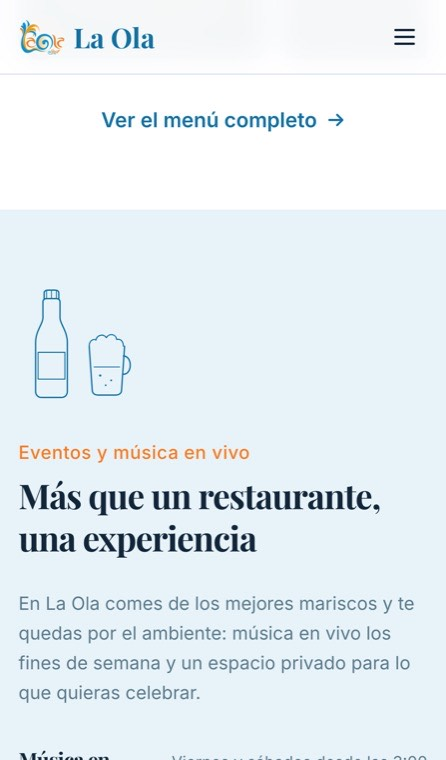
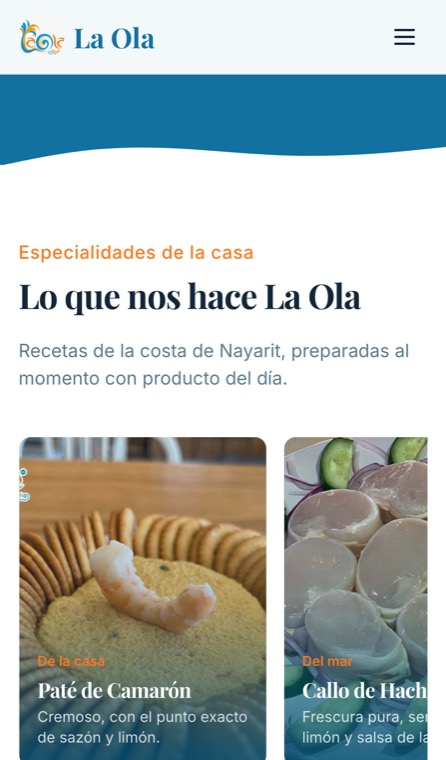
Landing más compacta: proyectos en dos columnas, proceso en una fila, menos espacio; nuevas capturas de La Ola

diff --git a/index.html b/index.html
@@ -56,7 +56,7 @@
   .cotizar { font-size: 15px; font-weight: 500; border-bottom: 1px solid var(--crema); padding-bottom: 2px; }
 
   /* Portada */
-  .portada { min-height: 100svh; display: flex; flex-direction: column; justify-content: flex-end; padding: 140px 0 56px; position: relative; }
+  .portada { min-height: 86svh; display: flex; flex-direction: column; justify-content: flex-end; padding: 130px 0 48px; position: relative; }
   .previo { color: var(--gris); font-size: 15px; font-weight: 500; margin: 0 0 28px; }
   h1 {
     font-weight: 500; font-size: clamp(48px, 8.2vw, 132px); line-height: .98; letter-spacing: -0.05em; margin: 0;
@@ -67,7 +67,7 @@
   h1 .linea:nth-child(3) > span { animation-delay: .24s; }
   @keyframes subir { to { transform: none; } }
 
-  .portada-pie { display: grid; grid-template-columns: 1.2fr 1fr; gap: 40px; align-items: end; margin-top: 56px; }
+  .portada-pie { display: grid; grid-template-columns: 1.2fr 1fr; gap: 40px; align-items: end; margin-top: 40px; }
   .portada-pie p { color: var(--gris); font-size: 20px; line-height: 1.55; margin: 0; max-width: 30em; }
   .acciones { display: flex; gap: 28px; align-items: center; justify-content: flex-end; flex-wrap: wrap; }
   .boton {
@@ -80,83 +80,82 @@
   .boton:hover .flecha { transform: translateX(4px); }
   .liga { font-weight: 500; border-bottom: 1px solid var(--gris-2); padding-bottom: 3px; transition: border-color .3s; }
   .liga:hover { border-color: var(--crema); }
-  .datos { display: flex; gap: 40px; flex-wrap: wrap; margin-top: 64px; font-size: 14px; color: var(--gris); }
+  .datos { display: flex; gap: 40px; flex-wrap: wrap; margin-top: 44px; font-size: 14px; color: var(--gris); }
   .datos b { color: var(--crema); font-weight: 500; }
 
   /* Cinta de nombres */
-  .cinta { padding: 40px 0; overflow: hidden; background: var(--negro-2); }
+  .cinta { padding: 22px 0; overflow: hidden; background: var(--negro-2); }
   .cinta-pista { display: flex; width: max-content; animation: correr 38s linear infinite; }
-  .cinta span { font: 500 clamp(36px, 5vw, 72px)/1 var(--sans); letter-spacing: -0.04em; color: var(--gris-2); padding-right: 64px; white-space: nowrap; transition: color .3s; }
+  .cinta span { font: 500 clamp(26px, 3.4vw, 48px)/1 var(--sans); letter-spacing: -0.04em; color: var(--gris-2); padding-right: 64px; white-space: nowrap; transition: color .3s; }
   .cinta span:hover { color: var(--crema); }
   .cinta span::after { content: "/"; color: var(--gris-2); padding-left: 64px; font-weight: 400; }
   @keyframes correr { to { transform: translateX(-50%); } }
 
   /* Secciones */
-  section { padding: 140px 0; }
-  .titulo-seccion { display: grid; grid-template-columns: 1.3fr 1fr; gap: 40px; align-items: end; margin-bottom: 96px; }
+  section { padding: 88px 0; }
+  .titulo-seccion { display: grid; grid-template-columns: 1.3fr 1fr; gap: 40px; align-items: end; margin-bottom: 44px; }
   h2 { font-weight: 500; font-size: clamp(38px, 5.4vw, 80px); line-height: 1.02; letter-spacing: -0.045em; margin: 0; }
   .titulo-seccion p { color: var(--gris); font-size: 19px; margin: 0; max-width: 26em; }
 
   /* Trabajos */
-  .proyecto { margin-bottom: 160px; }
-  .proyecto:last-child { margin-bottom: 0; }
-  .proyecto-cabeza { display: flex; justify-content: space-between; align-items: baseline; gap: 24px; flex-wrap: wrap; margin-bottom: 28px; }
-  .proyecto h3 { font-weight: 500; font-size: clamp(36px, 4.4vw, 64px); letter-spacing: -0.035em; line-height: 1; margin: 0; }
-  .etiquetas { display: flex; gap: 22px; color: var(--gris); font-size: 14px; flex-wrap: wrap; }
+  .trabajos { display: grid; grid-template-columns: 1fr 1fr; gap: 56px 32px; }
+  .proyecto { min-width: 0; }
+  .proyecto-cabeza { display: flex; justify-content: space-between; align-items: baseline; gap: 16px; flex-wrap: wrap; margin-bottom: 14px; }
+  .proyecto h3 { font-weight: 500; font-size: clamp(26px, 2.4vw, 34px); letter-spacing: -0.03em; line-height: 1; margin: 0; }
+  .etiquetas { display: flex; gap: 14px; color: var(--gris); font-size: 13px; flex-wrap: wrap; }
   .escena { position: relative; }
   .ventana { background: var(--negro-3); border-radius: 8px; overflow: hidden; }
-  .ventana-barra { display: flex; align-items: center; justify-content: space-between; padding: 10px 16px; font-size: 13px; color: var(--gris); }
+  .ventana-barra { display: flex; align-items: center; justify-content: space-between; padding: 8px 12px; font-size: 12px; color: var(--gris); }
   .ventana-barra .controles { display: flex; gap: 18px; font-size: 13px; color: var(--gris-2); letter-spacing: 0; }
   .ventana-pantalla { overflow: hidden; aspect-ratio: 16 / 10; }
   .ventana-pantalla img { width: 100%; height: 100%; object-fit: cover; object-position: top; filter: grayscale(1) contrast(1.04); transition: transform 1.2s var(--curva), filter .9s ease; }
   .proyecto.activo img, .proyecto:hover img { filter: none; }
   .proyecto:hover .ventana-pantalla img { transform: scale(1.025); }
   .celular {
-    position: absolute; right: 4%; bottom: -14%; width: clamp(130px, 17%, 230px);
-    background: #050505; border-radius: 30px; padding: 8px; will-change: transform;
+    position: absolute; right: 4%; bottom: -10%; width: 21%;
+    background: #050505; border-radius: 20px; padding: 5px; will-change: transform;
   }
-  .celular img { filter: grayscale(1) contrast(1.04); transition: filter .9s ease; border-radius: 23px; aspect-ratio: 446 / 760; object-fit: cover; object-position: top; width: 100%; height: auto; }
-  .proyecto-pie { display: grid; grid-template-columns: 1.3fr 1fr; gap: 40px; margin-top: 44px; align-items: start; }
-  .proyecto-pie p { margin: 0; color: var(--gris); font-size: 17px; max-width: 34em; }
-  .proyecto-pie .resultado { color: var(--crema); margin-bottom: 10px; }
+  .celular img { filter: grayscale(1) contrast(1.04); transition: filter .9s ease; border-radius: 15px; aspect-ratio: 446 / 760; object-fit: cover; object-position: top; width: 100%; height: auto; }
+  .proyecto-pie { display: flex; justify-content: space-between; gap: 24px; margin-top: 30px; align-items: baseline; }
+  .proyecto-pie p { margin: 0; color: var(--gris); font-size: 15px; max-width: 30em; }
+  .proyecto-pie .resultado { color: var(--crema); }
   .proyecto-pie .resultado b { color: var(--gris); font-weight: 500; margin-right: 10px; }
-  .proyecto-pie .visitar { justify-self: end; font-weight: 500; border-bottom: 1px solid var(--gris-2); padding-bottom: 3px; transition: border-color .3s; }
+  .proyecto-pie .visitar { flex: none; font-size: 15px; font-weight: 500; border-bottom: 1px solid var(--gris-2); padding-bottom: 3px; transition: border-color .3s; }
   .proyecto-pie .visitar:hover { border-color: var(--crema); }
 
   /* Proceso */
   .proceso { background: var(--crema); color: var(--negro); }
-  .proceso-rejilla { display: grid; grid-template-columns: 1fr 1.2fr; gap: 80px; }
-  .proceso .fijo { position: sticky; top: 120px; }
-  .proceso .nota { color: #6b6b6b; font-size: 19px; margin: 28px 0 0; max-width: 22em; }
-  .paso { padding: 0 0 72px; }
-  .paso:last-child { padding-bottom: 0; }
+  .proceso-rejilla { display: grid; grid-template-columns: 1fr; gap: 44px; }
+  .pasos { display: grid; grid-template-columns: repeat(4, 1fr); gap: 32px; }
+  .proceso .fijo { display: grid; grid-template-columns: 1.3fr 1fr; gap: 40px; align-items: end; }
+  .proceso .nota { color: #6b6b6b; font-size: 19px; margin: 0; max-width: 22em; }
+  .paso { padding: 0; }
   .paso .num { font: 500 15px/1 var(--sans); color: #8c8c8c; display: block; margin-bottom: 18px; }
-  .paso h3 { font-weight: 500; font-size: 28px; letter-spacing: -0.02em; margin: 0 0 10px; }
-  .paso p { margin: 0; color: #5a5a5a; font-size: 18px; max-width: 28em; }
+  .paso h3 { font-weight: 500; font-size: 22px; letter-spacing: -0.02em; margin: 0 0 10px; }
+  .paso p { margin: 0; color: #5a5a5a; font-size: 16px; }
 
   /* Paquetes */
   .paquetes { display: grid; grid-template-columns: 1fr 1fr; gap: 24px; }
-  .paquete { background: var(--negro-2); border-radius: 8px; padding: 48px; display: flex; flex-direction: column; transition: background .4s; }
+  .paquete { background: var(--negro-2); border-radius: 8px; padding: 36px; display: flex; flex-direction: column; transition: background .4s; }
   .paquete:hover { background: var(--negro-3); }
   .paquete.destacado { background: var(--crema); color: var(--negro); }
-  .paquete .tipo { font-size: 15px; color: var(--gris); margin: 0 0 32px; }
+  .paquete .tipo { font-size: 15px; color: var(--gris); margin: 0 0 18px; }
   .paquete.destacado .tipo { color: #6b6b6b; }
   .paquete h3 { font-weight: 500; font-size: 40px; letter-spacing: -0.03em; margin: 0 0 8px; line-height: 1.05; }
-  .precio { font: 500 clamp(56px, 6vw, 88px)/1 var(--sans); letter-spacing: -0.055em; margin: 28px 0 6px; }
+  .precio { font: 500 clamp(56px, 6vw, 88px)/1 var(--sans); letter-spacing: -0.055em; margin: 18px 0 4px; }
   .precio small { font-size: 18px; letter-spacing: 0; color: var(--gris); margin-left: 6px; }
   .paquete.destacado .precio small { color: #6b6b6b; }
-  .paquete ul { list-style: none; padding: 0; margin: 36px 0 44px; display: grid; gap: 14px; }
+  .paquete ul { list-style: none; padding: 0; margin: 24px 0 30px; display: grid; gap: 10px; }
   .paquete li { display: flex; gap: 14px; font-size: 17px; }
   .paquete li::before { content: ""; width: 5px; height: 5px; background: var(--gris); margin-top: 11px; flex: none; }
   .paquete .boton { margin-top: auto; align-self: flex-start; }
   .paquete.destacado .boton { background: var(--negro); color: var(--crema); }
   .paquete.destacado .boton:hover { background: #333; color: var(--crema); }
-  .letra-chica { color: var(--gris); font-size: 15px; margin: 32px 0 0; }
+  .letra-chica { color: var(--gris); font-size: 15px; margin: 22px 0 0; }
 
   /* Preguntas */
-  .preguntas { display: grid; grid-template-columns: 1fr 1.4fr; gap: 80px; }
-  details { padding: 26px 0; }
-  details + details { margin-top: 4px; }
+  .preguntas { display: grid; grid-template-columns: 1fr 1.4fr; gap: 64px; }
+  details { padding: 16px 0; }
   summary { list-style: none; cursor: pointer; display: flex; justify-content: space-between; gap: 24px; font-size: 22px; letter-spacing: -0.015em; }
   summary::-webkit-details-marker { display: none; }
   summary::after { content: "+"; font-size: 28px; line-height: 1; color: var(--gris); transition: transform .35s var(--curva); }
@@ -164,9 +163,9 @@
   details p { color: var(--gris); margin: 14px 0 0; font-size: 18px; max-width: 36em; }
 
   /* Cierre */
-  .cierre { padding: 160px 0 120px; }
-  .cierre h2 { font-size: clamp(50px, 9vw, 150px); line-height: .95; letter-spacing: -0.055em; }
-  .cierre-pie { display: flex; justify-content: space-between; align-items: end; gap: 32px; flex-wrap: wrap; margin-top: 64px; }
+  .cierre { padding: 96px 0 72px; }
+  .cierre h2 { font-size: clamp(46px, 7.4vw, 120px); line-height: .95; letter-spacing: -0.055em; }
+  .cierre-pie { display: flex; justify-content: space-between; align-items: end; gap: 32px; flex-wrap: wrap; margin-top: 40px; }
   .correo { font: 500 clamp(26px, 3.2vw, 44px)/1.1 var(--sans); letter-spacing: -0.03em; border-bottom: 1px solid var(--gris-2); padding-bottom: 6px; transition: color .3s, border-color .3s; }
   .correo:hover { border-color: var(--crema); }
   footer { padding: 40px 0 48px; color: var(--gris-2); font-size: 14px; }
@@ -178,14 +177,13 @@
 
   @media (max-width: 900px) {
     .barra nav { display: none; }
-    .portada-pie, .titulo-seccion, .proyecto-pie, .proceso-rejilla, .preguntas, .paquetes { grid-template-columns: 1fr; }
+    .portada-pie, .titulo-seccion, .proceso-rejilla, .preguntas, .paquetes, .trabajos, .proceso .fijo { grid-template-columns: 1fr; }
+    .pasos { grid-template-columns: 1fr 1fr; gap: 28px 20px; }
     .acciones { justify-content: flex-start; }
-    .proyecto-pie .visitar { justify-self: start; }
-    .proceso .fijo { position: static; }
     .proceso-rejilla { gap: 48px; }
-    section { padding: 96px 0; }
-    .titulo-seccion { margin-bottom: 56px; }
-    .proyecto { margin-bottom: 120px; }
+    section { padding: 64px 0; }
+    .titulo-seccion { margin-bottom: 32px; }
+    .preguntas { gap: 20px; }
     .paquete { padding: 32px 24px; }
   }
   @media (max-width: 560px) {
@@ -193,10 +191,11 @@
     .portada { padding: 120px 0 40px; }
     .portada-pie p { font-size: 18px; }
     .datos { gap: 14px 28px; margin-top: 44px; }
-    .celular { width: 31%; right: 3%; bottom: -18%; border-radius: 18px; padding: 5px; }
-    .celular img { border-radius: 14px; }
+    .celular { width: 26%; right: 3%; bottom: -12%; border-radius: 16px; padding: 4px; }
+    .celular img { border-radius: 12px; }
     .ventana-barra .url { font-size: 12px; }
-    .proyecto-pie { margin-top: 64px; }
+    .proyecto-pie { margin-top: 28px; }
+    .pasos { grid-template-columns: 1fr; }
     summary { font-size: 19px; }
   }
   @media (prefers-reduced-motion: reduce) {
@@ -259,6 +258,7 @@
         <p>Cada sitio se diseñó para su marca y para quien lo abre desde el celular.</p>
       </div>
 
+      <div class="trabajos">
       <article class="proyecto">
         <div class="proyecto-cabeza rev">
           <h3>Makatea</h3>
@@ -273,8 +273,7 @@
         </div>
         <div class="proyecto-pie rev">
           <div>
-            <p class="resultado"><b>Resultado</b>Recordatorios de pago que salen del WhatsApp del propio negocio</p>
-            <p>Software de cobranza recurrente. Sitio en tres idiomas, precios por país y cuenta que se abre sin hablar con nadie.</p>
+            <p class="resultado">Recordatorios de pago que salen del WhatsApp del propio negocio</p>
           </div>
           <a class="visitar" href="https://makatea.ai" target="_blank" rel="noopener">makatea.ai ↗</a>
         </div>
@@ -294,8 +293,7 @@
         </div>
         <div class="proyecto-pie rev">
           <div>
-            <p class="resultado"><b>Resultado</b>Menú, eventos y programa de lealtad de cuatro sucursales en un solo sitio</p>
-            <p>Restaurante de mariscos con música en vivo. El cliente se inscribe a la lealtad desde su mesa con un código QR.</p>
+            <p class="resultado">Menú, eventos y programa de lealtad de cuatro sucursales en un solo sitio</p>
           </div>
           <a class="visitar" href="https://laola.mx" target="_blank" rel="noopener">laola.mx ↗</a>
         </div>
@@ -315,8 +313,7 @@
         </div>
         <div class="proyecto-pie rev">
           <div>
-            <p class="resultado"><b>Resultado</b>Contratos que se firman desde el celular, con clientes en 13 países</p>
-            <p>Plataforma para preparar, mandar y firmar contratos. Biblioteca de plantillas y guías en tres idiomas.</p>
+            <p class="resultado">Contratos que se firman desde el celular, con clientes en 13 países</p>
           </div>
           <a class="visitar" href="https://signsolu.com" target="_blank" rel="noopener">signsolu.com ↗</a>
         </div>
@@ -336,8 +333,7 @@
         </div>
         <div class="proyecto-pie rev">
           <div>
-            <p class="resultado"><b>Resultado</b>Cotizaciones con la marca del negocio que se mandan por WhatsApp en minutos</p>
-            <p>Sistema para negocios agrícolas. Catálogo con precios de contado y de cosecha, y aviso cuando el cliente abre la cotización.</p>
+            <p class="resultado">Cotizaciones con la marca del negocio que se mandan por WhatsApp en minutos</p>
           </div>
           <a class="visitar" href="https://agroqs.com" target="_blank" rel="noopener">agroqs.com ↗</a>
         </div>
@@ -357,8 +353,7 @@
         </div>
         <div class="proyecto-pie rev">
           <div>
-            <p class="resultado"><b>Resultado</b>Solicitud de crédito desde el celular, sin papeleo ni visita a sucursal</p>
-            <p>Créditos para personas y negocios. El cliente pide su primer crédito o renueva con un clic.</p>
+            <p class="resultado">Solicitud de crédito desde el celular, sin papeleo ni visita a sucursal</p>
           </div>
           <a class="visitar" href="https://solufintech.com" target="_blank" rel="noopener">solufintech.com ↗</a>
         </div>
@@ -378,12 +373,12 @@
         </div>
         <div class="proyecto-pie rev">
           <div>
-            <p class="resultado"><b>Resultado</b>Un sitio con la personalidad de la artista</p>
-            <p>Cantautora sonorense. Música, videos, diario y álbum en un sitio bilingüe que ella misma actualiza.</p>
+            <p class="resultado">Un sitio con la personalidad de la artista</p>
           </div>
           <a class="visitar" href="https://avelina.com.mx" target="_blank" rel="noopener">avelina.com.mx ↗</a>
         </div>
       </article>
+      </div>
     </div>
   </section>
 
@@ -393,7 +388,7 @@
         <h2>Usted ve su página <em>antes</em> de contratar</h2>
         <p class="nota">Primero le mostramos el trabajo. Después usted decide.</p>
       </div>
-      <div>
+      <div class="pasos">
         <div class="paso rev">
           <span class="num">01</span>
           <h3>Armamos una muestra</h3>
@@ -536,7 +531,7 @@
         const r = c.parentElement.getBoundingClientRect();
         if (r.bottom < -200 || r.top > alto + 200) return;
         const avance = (r.top + r.height / 2 - alto / 2) / alto;
-        c.style.transform = `translateY(${(avance * 70).toFixed(1)}px)`;
+        c.style.transform = `translateY(${(avance * 40).toFixed(1)}px)`;
       });
     };
     addEventListener('scroll', () => { if (!pendiente) { pendiente = true; requestAnimationFrame(mover); } }, { passive: true });
